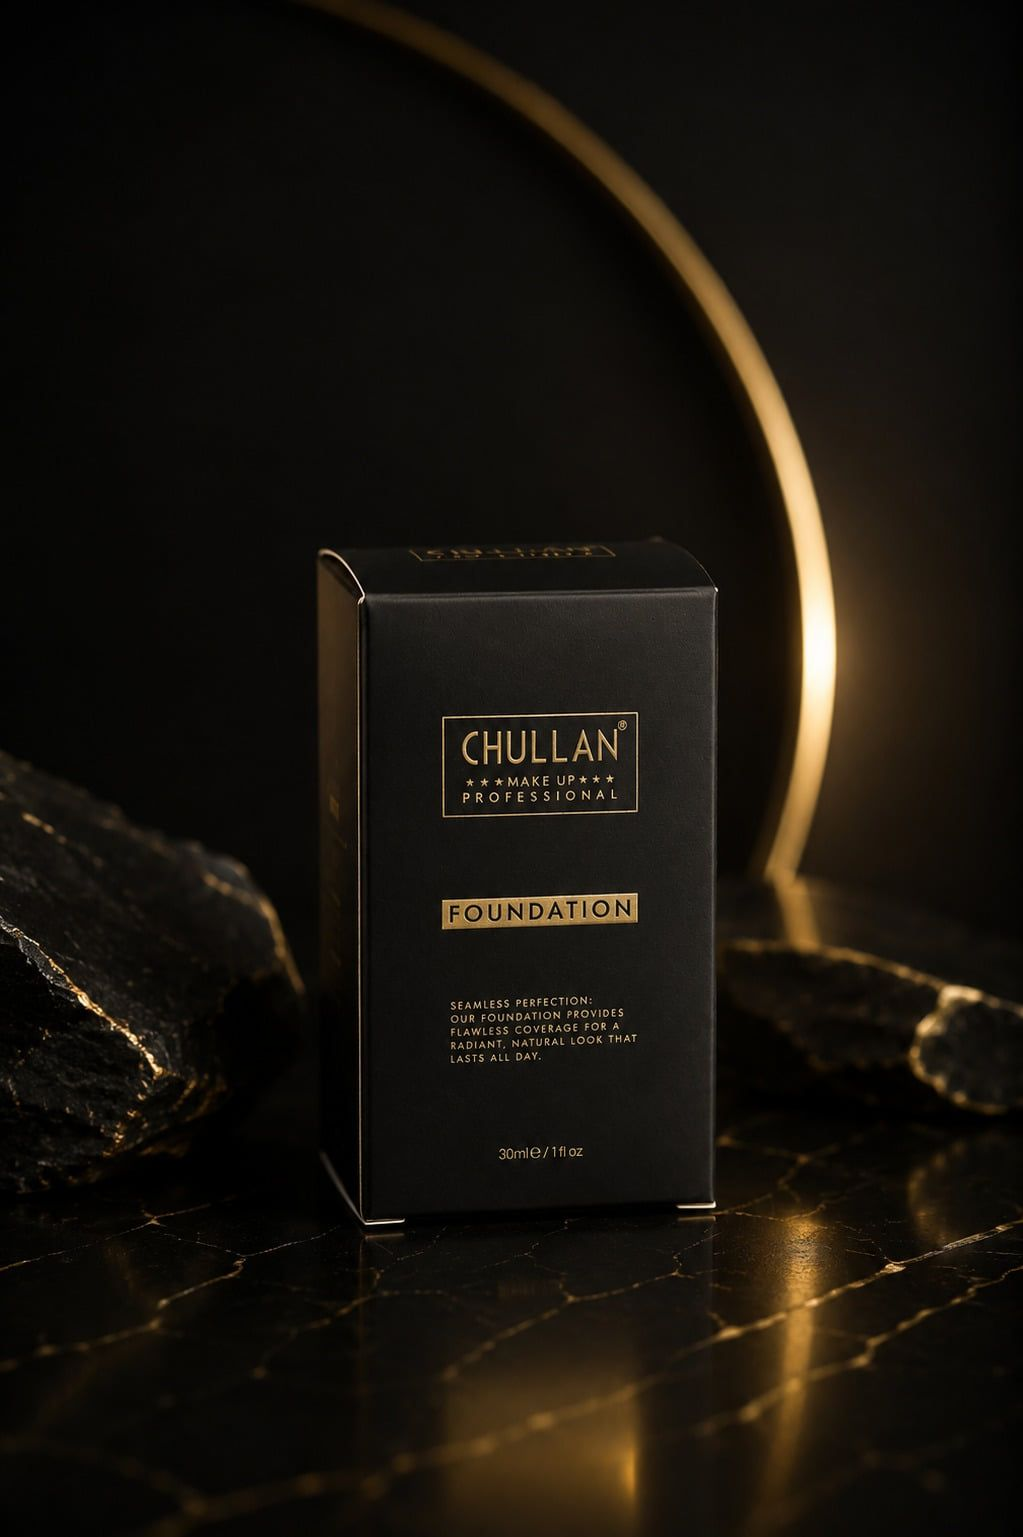
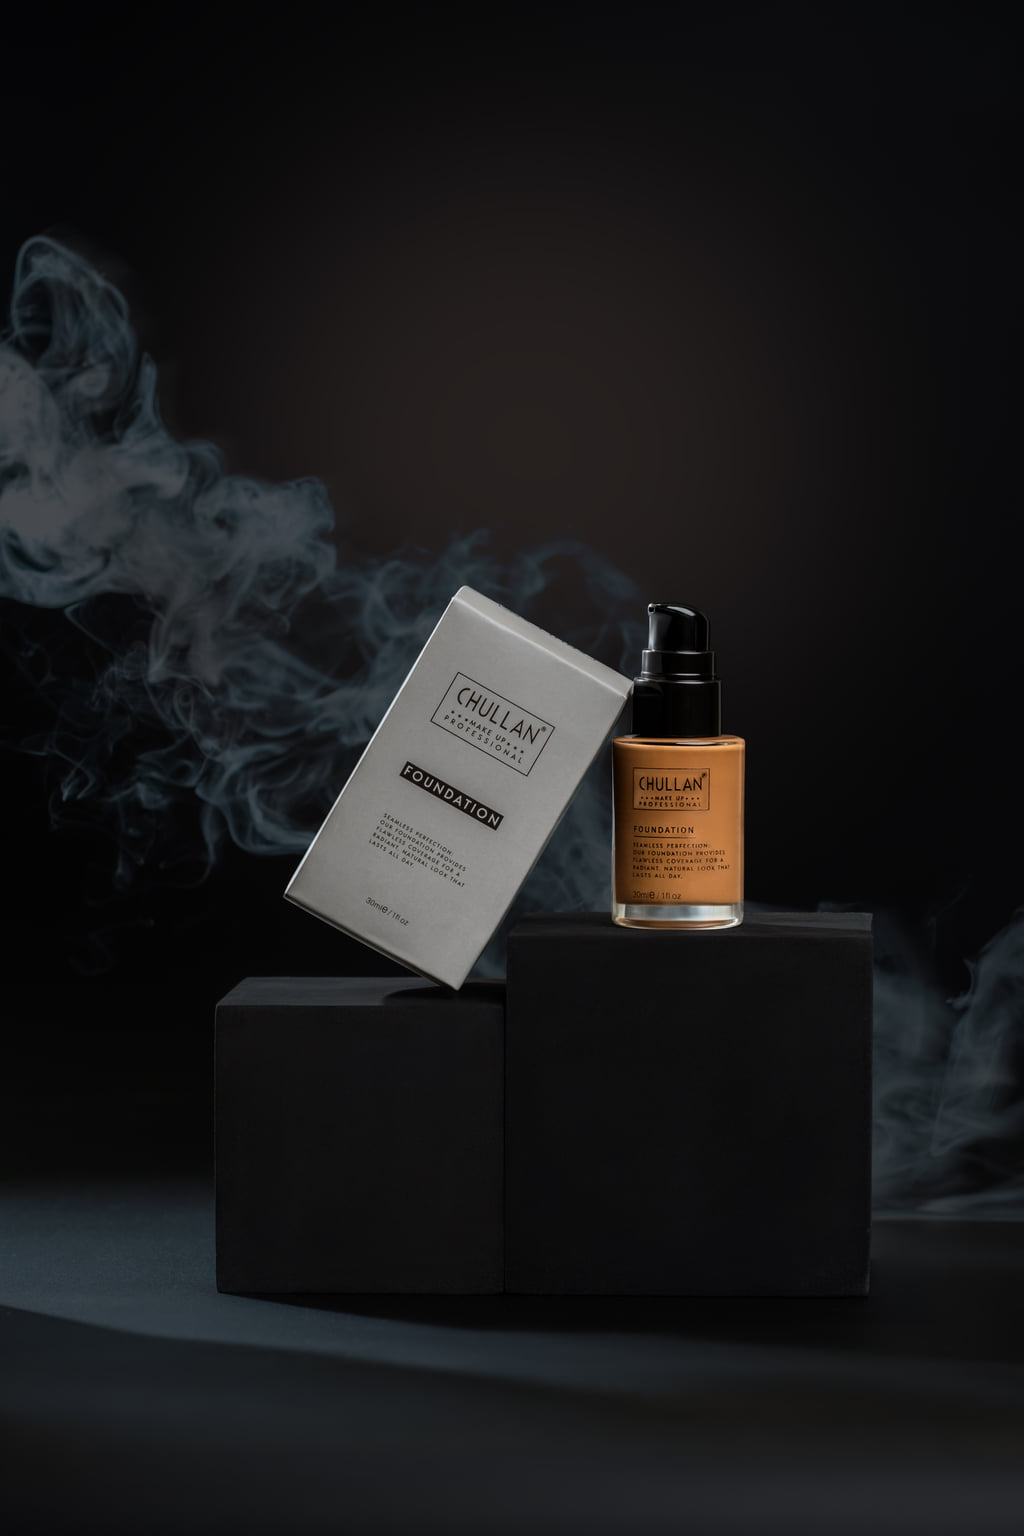
feat: real product photography replaces the generated images
Five products now carry photographs of the actual packaging: Foundation,
Moisturiser, Sunscreen, Hydra Primer and Setting Spray. Shot as a set --
studio-lit on dark plinths, product beside its box -- so the grid reads as one
range rather than a collection of sources.

Two of these replace AI-generated art with misspelt text baked into the pixels.
The Setting Spray shot in particular had MANE UP in the wordmark lockup, which
no code change could fix; it needed exactly this. That leaves the hero and the
shades band as the last two generated images carrying garbled copy.

Camera originals are 4160x6240 and 5-10MB each. Resized to 1024x1536 -- the
same 2:3 the existing product shots use, so nothing about the grid's rhythm
changes -- and re-encoded at quality 85 with full 4:4:4 chroma, which these
need more than most: fine grey type on near-black is exactly the high-contrast
coloured edge that subsampling smears. 38MB in, 598kB out.

`primer.jpg` was used rather than `primer.jpeg`. Both are the same product; the
.jpg is 2:3 like the rest of the set and the .jpeg is landscape, which would
have cropped to a different framing in a portrait card.

`hero-sunscreen.jpg` becomes `product-sunscreen.jpg`. The old name was a
leftover from when that image was the homepage hero -- it has been nothing but
the sunscreen product shot since the hero changed, and a filename that
describes a job it no longer does is a small trap for whoever edits it next.

diff --git a/src/data/products.ts b/src/data/products.ts
@@ -4,7 +4,7 @@ import concealerImg from '../assets/product-concealer.jpg';
 import moisturiserImg from '../assets/product-moisturiser.jpg';
 import correctorImg from '../assets/product-colour-corrector.jpg';
 import antiShineImg from '../assets/product-anti-shine-powder.jpg';
-import sunscreenImg from '../assets/hero-sunscreen.jpg';
+import sunscreenImg from '../assets/product-sunscreen.jpg';
 import hydraPrimerImg from '../assets/product-hydra-primer.jpg';
 import settingSprayImg from '../assets/product-setting-spray.jpg';
 import { CATALOG, ROUTINE, catalogById, catalogBySku } from './catalog';
